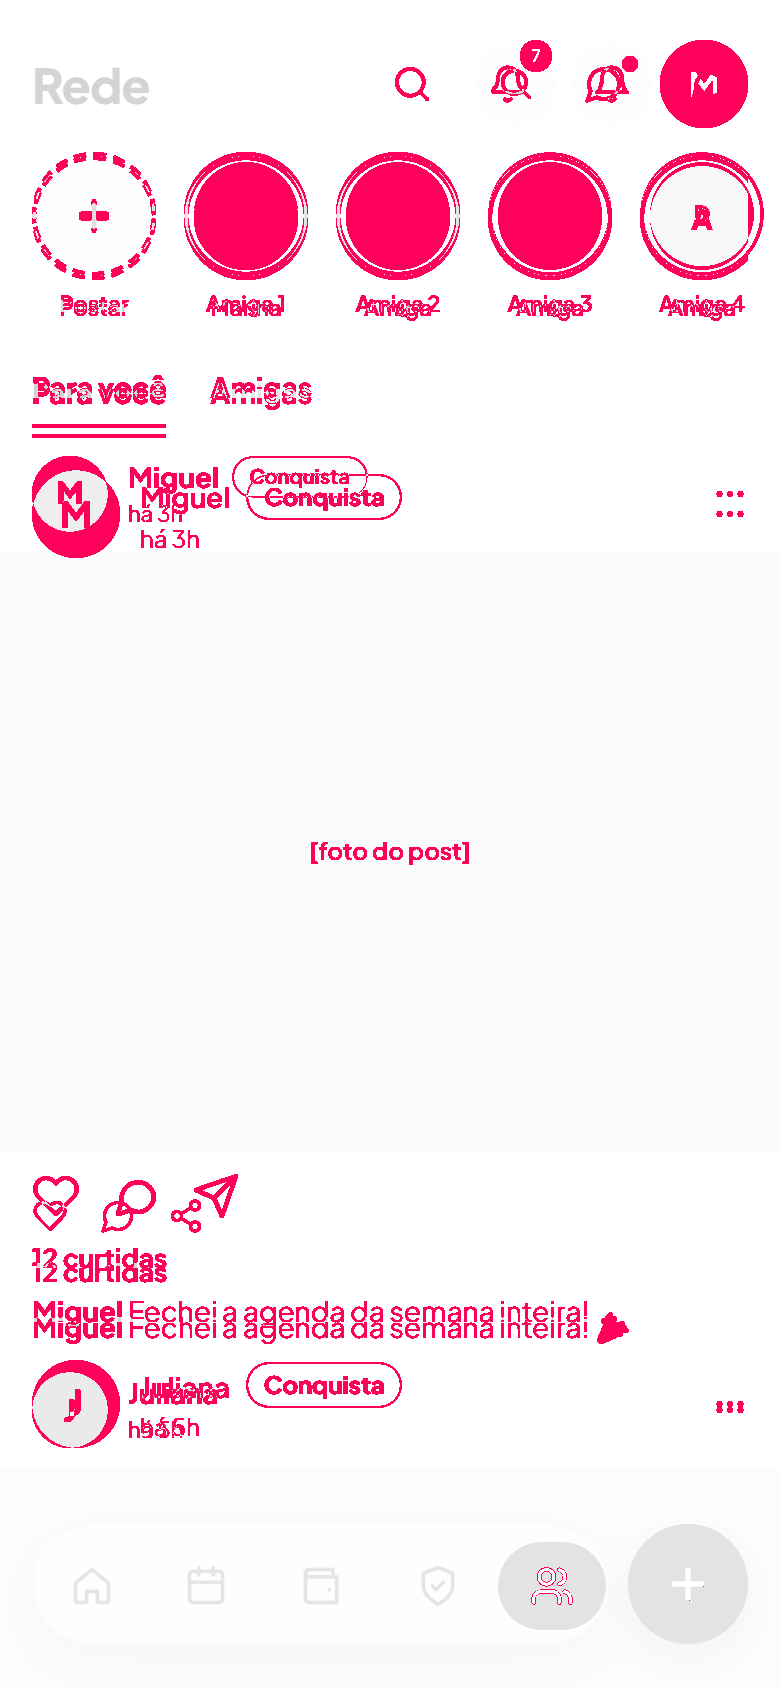
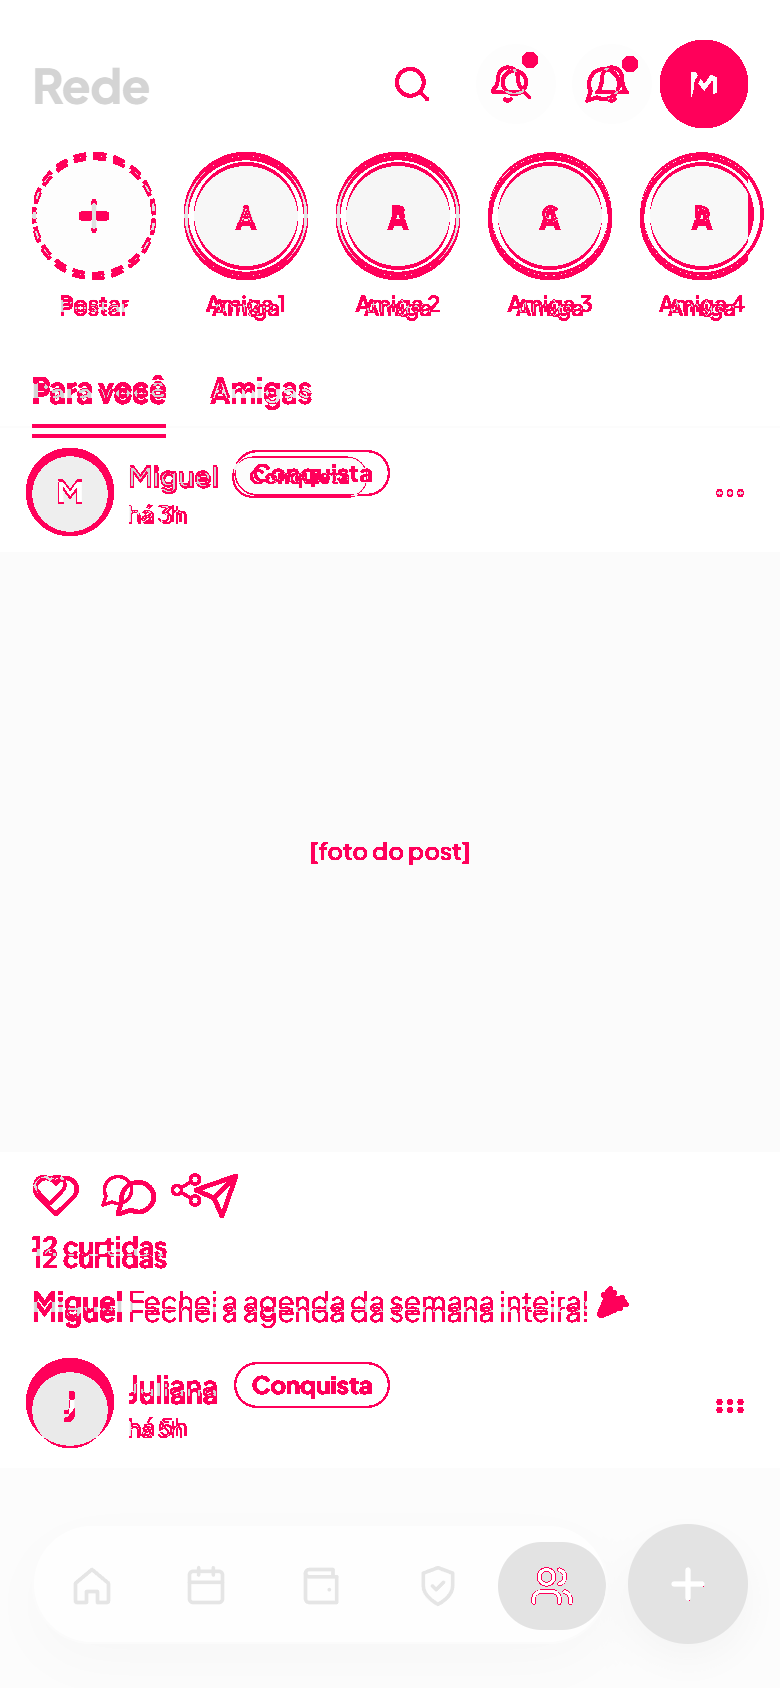
chore(pixel): prints e resumos atualizados do Cofre e da Rede
Saída da ferramenta depois dos ajustes do ponto do sino e da ordem da
fileira de amigas. Só arquivos de pixel/cofre e pixel/rede.

diff --git a/docs/jornada/prints/pixel/cofre/cofre-390-claro-pink-neon-estilos.md b/docs/jornada/prints/pixel/cofre/cofre-390-claro-pink-neon-estilos.md
@@ -2,8 +2,8 @@
 
 - mockup: `5-telas-8-temas-claro-escuro.html`
 - app: `http://localhost:3107/dev-preview/app`
-- pareados 164 · divergem 60 · só no mockup 8 · só no app 177
-- impacto total: **72.459**
+- pareados 164 · divergem 52 · só no mockup 8 · só no app 177
+- impacto total: **68.922**
 - famílias no mockup: plus jakarta sans (32)
 - famílias no app: plus jakarta sans (100)
 
@@ -45,57 +45,48 @@ Em cada célula: **mockup** → app.
 | 10 | 0.784 | span | 80,771 · 46x44 | borderRadius | `22px 22px 22px 22px` → `999px 999px 999px 999px` |
 | 11 | 0.784 | span | 138,771 · 46x44 | borderRadius | `22px 22px 22px 22px` → `999px 999px 999px 999px` |
 | 12 | 0.784 | span | 253,771 · 46x44 | borderRadius | `22px 22px 22px 22px` → `999px 999px 999px 999px` |
-| 13 | 0.737 | span | 32,745 · 40x40 | color | `rgb(214, 16, 92)` → `rgb(15, 138, 82)` |
-|  |  |  |  | backgroundColor | `rgb(253, 227, 236)` → `rgba(15, 138, 82, 0.14)` |
-| 14 | 0.707 | span | 32,940 · 40x40 | color | `rgb(124, 58, 237)` → `rgb(15, 138, 82)` |
-|  |  |  |  | backgroundColor | `rgb(241, 234, 254)` → `rgba(15, 138, 82, 0.14)` |
-| 15 | 0.697 | span | 284,24 · 40x40 | borderRadius | `50% 50% 50% 50%` → `9999px 9999px 9999px 9999px` |
-| 16 | 0.697 | span | 334,24 · 40x40 | borderRadius | `50% 50% 50% 50%` → `9999px 9999px 9999px 9999px` |
-| 17 | 0.594 | span | 32,810 · 40x40 | color | `rgb(15, 138, 82)` → `rgb(29, 78, 216)` |
-|  |  |  |  | backgroundColor | `rgb(227, 246, 236)` → `rgba(29, 78, 216, 0.14)` |
-| 18 | 0.456 | span | 32,875 · 40x40 | color | `rgb(29, 78, 216)` → `rgb(192, 132, 252)` |
-|  |  |  |  | backgroundColor | `rgb(230, 239, 253)` → `rgba(192, 132, 252, 0.14)` |
-| 19 | 0.449 | span | 32,418 · 40x40 | backgroundColor | `rgb(227, 246, 236)` → `rgba(15, 138, 82, 0.14)` |
-| 20 | 0.449 | span | 32,613 · 40x40 | backgroundColor | `rgb(227, 246, 236)` → `rgba(15, 138, 82, 0.14)` |
-| 21 | 0.422 | span | 32,483 · 40x40 | backgroundColor | `rgb(230, 239, 253)` → `rgba(29, 78, 216, 0.14)` |
-| 22 | 0.37 | span | 32,548 · 40x40 | color | `rgb(124, 58, 237)` → `rgb(192, 132, 252)` |
-|  |  |  |  | backgroundColor | `rgb(241, 234, 254)` → `rgba(192, 132, 252, 0.14)` |
-| 23 | 0.29 | svg | 332,780 · 24x24 | color | `rgb(255, 255, 255)` → `rgb(15, 15, 15)` |
-| 24 | 0.241 | span “Ver tudo ›” | 318,365 · 57x18 | altura | `18px` → `44px` |
-| 25 | 0.136 | svg | 42,755 · 20x20 | color | `rgb(214, 16, 92)` → `rgb(15, 138, 82)` |
-| 26 | 0.12 | svg | 42,950 · 20x20 | color | `rgb(124, 58, 237)` → `rgb(15, 138, 82)` |
-| 27 | 0.103 | path | 46,758 · 12x15 | color | `rgb(214, 16, 92)` → `rgb(15, 138, 82)` |
+| 13 | 0.697 | span | 284,24 · 40x40 | borderRadius | `50% 50% 50% 50%` → `9999px 9999px 9999px 9999px` |
+| 14 | 0.697 | span | 334,24 · 40x40 | borderRadius | `50% 50% 50% 50%` → `9999px 9999px 9999px 9999px` |
+| 15 | 0.309 | span | 32,745 · 40x40 | color | `rgb(214, 16, 92)` → `rgb(15, 138, 82)` |
+|  |  |  |  | backgroundColor | `rgb(253, 227, 236)` → `rgb(227, 246, 236)` |
+| 16 | 0.29 | svg | 332,780 · 24x24 | color | `rgb(255, 255, 255)` → `rgb(15, 15, 15)` |
+| 17 | 0.269 | span | 32,940 · 40x40 | color | `rgb(124, 58, 237)` → `rgb(15, 138, 82)` |
+|  |  |  |  | backgroundColor | `rgb(241, 234, 254)` → `rgb(227, 246, 236)` |
+| 18 | 0.241 | span “Ver tudo ›” | 318,365 · 57x18 | altura | `18px` → `44px` |
+| 19 | 0.193 | span | 32,810 · 40x40 | color | `rgb(15, 138, 82)` → `rgb(29, 78, 216)` |
+|  |  |  |  | backgroundColor | `rgb(227, 246, 236)` → `rgb(230, 239, 253)` |
+| 20 | 0.136 | svg | 42,755 · 20x20 | color | `rgb(214, 16, 92)` → `rgb(15, 138, 82)` |
+| 21 | 0.13 | span | 32,875 · 40x40 | color | `rgb(29, 78, 216)` → `rgb(124, 58, 237)` |
+|  |  |  |  | backgroundColor | `rgb(230, 239, 253)` → `rgb(241, 234, 254)` |
+| 22 | 0.12 | svg | 42,950 · 20x20 | color | `rgb(124, 58, 237)` → `rgb(15, 138, 82)` |
+| 23 | 0.103 | path | 46,758 · 12x15 | color | `rgb(214, 16, 92)` → `rgb(15, 138, 82)` |
 |  |  |  |  | largura | `11.7px` → `15px` |
-| 28 | 0.102 | svg | 42,885 · 20x20 | color | `rgb(29, 78, 216)` → `rgb(192, 132, 252)` |
-| 29 | 0.09 | rect | 45,953 · 15x15 | color | `rgb(124, 58, 237)` → `rgb(15, 138, 82)` |
-| 30 | 0.086 | svg | 42,820 · 20x20 | color | `rgb(15, 138, 82)` → `rgb(29, 78, 216)` |
-| 31 | 0.077 | svg | 342,430 · 16x16 | color | `rgb(15, 15, 15)` → `rgb(107, 107, 116)` |
-| 32 | 0.077 | svg | 342,495 · 16x16 | color | `rgb(15, 15, 15)` → `rgb(107, 107, 116)` |
-| 33 | 0.077 | svg | 342,560 · 16x16 | color | `rgb(15, 15, 15)` → `rgb(107, 107, 116)` |
-| 34 | 0.077 | svg | 342,625 · 16x16 | color | `rgb(15, 15, 15)` → `rgb(107, 107, 116)` |
-| 35 | 0.077 | svg | 342,757 · 16x16 | color | `rgb(15, 15, 15)` → `rgb(107, 107, 116)` |
-| 36 | 0.077 | svg | 342,822 · 16x16 | color | `rgb(15, 15, 15)` → `rgb(107, 107, 116)` |
-| 37 | 0.077 | svg | 342,887 · 16x16 | color | `rgb(15, 15, 15)` → `rgb(107, 107, 116)` |
-| 38 | 0.077 | svg | 342,952 · 16x16 | color | `rgb(15, 15, 15)` → `rgb(107, 107, 116)` |
-| 39 | 0.076 | rect | 45,888 · 15x15 | color | `rgb(29, 78, 216)` → `rgb(192, 132, 252)` |
-| 40 | 0.069 | h2 “Recentes” | 16,363 · 69x23 | gap | `10px` → `normal` |
-| 41 | 0.066 | path | 46,958 · 13x9 | color | `rgb(124, 58, 237)` → `rgb(15, 138, 82)` |
-| 42 | 0.064 | rect | 45,823 · 15x15 | color | `rgb(15, 138, 82)` → `rgb(29, 78, 216)` |
-| 43 | 0.059 | svg | 42,558 · 20x20 | color | `rgb(124, 58, 237)` → `rgb(192, 132, 252)` |
-| 44 | 0.056 | path | 46,893 · 13x9 | color | `rgb(29, 78, 216)` → `rgb(192, 132, 252)` |
-| 45 | 0.047 | path | 46,828 · 13x9 | color | `rgb(15, 138, 82)` → `rgb(29, 78, 216)` |
-| 46 | 0.044 | rect | 45,560 · 15x15 | color | `rgb(124, 58, 237)` → `rgb(192, 132, 252)` |
-| 47 | 0.042 | div | 32,928 · 326x64 | altura | `64px` → `65px` |
-| 48 | 0.033 | path | 46,566 · 13x9 | color | `rgb(124, 58, 237)` → `rgb(192, 132, 252)` |
-| 49 | 0.027 | path | 348,434 · 4x8 | color | `rgb(15, 15, 15)` → `rgb(107, 107, 116)` |
-| 50 | 0.027 | path | 348,499 · 4x8 | color | `rgb(15, 15, 15)` → `rgb(107, 107, 116)` |
-| 51 | 0.027 | path | 348,564 · 4x8 | color | `rgb(15, 15, 15)` → `rgb(107, 107, 116)` |
-| 52 | 0.027 | path | 348,629 · 4x8 | color | `rgb(15, 15, 15)` → `rgb(107, 107, 116)` |
-| 53 | 0.027 | path | 348,761 · 4x8 | color | `rgb(15, 15, 15)` → `rgb(107, 107, 116)` |
-| 54 | 0.027 | path | 348,826 · 4x8 | color | `rgb(15, 15, 15)` → `rgb(107, 107, 116)` |
-| 55 | 0.027 | path | 348,891 · 4x8 | color | `rgb(15, 15, 15)` → `rgb(107, 107, 116)` |
-| 56 | 0.027 | path | 348,956 · 4x8 | color | `rgb(15, 15, 15)` → `rgb(107, 107, 116)` |
-| 57 | 0.02 | circle | 48,956 · 3x3 | color | `rgb(124, 58, 237)` → `rgb(15, 138, 82)` |
-| 58 | 0.017 | circle | 48,891 · 3x3 | color | `rgb(29, 78, 216)` → `rgb(192, 132, 252)` |
-| 59 | 0.014 | circle | 48,826 · 3x3 | color | `rgb(15, 138, 82)` → `rgb(29, 78, 216)` |
-| 60 | 0.01 | circle | 48,563 · 3x3 | color | `rgb(124, 58, 237)` → `rgb(192, 132, 252)` |
+| 24 | 0.09 | rect | 45,953 · 15x15 | color | `rgb(124, 58, 237)` → `rgb(15, 138, 82)` |
+| 25 | 0.086 | svg | 42,820 · 20x20 | color | `rgb(15, 138, 82)` → `rgb(29, 78, 216)` |
+| 26 | 0.077 | svg | 342,430 · 16x16 | color | `rgb(15, 15, 15)` → `rgb(107, 107, 116)` |
+| 27 | 0.077 | svg | 342,495 · 16x16 | color | `rgb(15, 15, 15)` → `rgb(107, 107, 116)` |
+| 28 | 0.077 | svg | 342,560 · 16x16 | color | `rgb(15, 15, 15)` → `rgb(107, 107, 116)` |
+| 29 | 0.077 | svg | 342,625 · 16x16 | color | `rgb(15, 15, 15)` → `rgb(107, 107, 116)` |
+| 30 | 0.077 | svg | 342,757 · 16x16 | color | `rgb(15, 15, 15)` → `rgb(107, 107, 116)` |
+| 31 | 0.077 | svg | 342,822 · 16x16 | color | `rgb(15, 15, 15)` → `rgb(107, 107, 116)` |
+| 32 | 0.077 | svg | 342,887 · 16x16 | color | `rgb(15, 15, 15)` → `rgb(107, 107, 116)` |
+| 33 | 0.077 | svg | 342,952 · 16x16 | color | `rgb(15, 15, 15)` → `rgb(107, 107, 116)` |
+| 34 | 0.069 | h2 “Recentes” | 16,363 · 69x23 | gap | `10px` → `normal` |
+| 35 | 0.066 | path | 46,958 · 13x9 | color | `rgb(124, 58, 237)` → `rgb(15, 138, 82)` |
+| 36 | 0.064 | rect | 45,823 · 15x15 | color | `rgb(15, 138, 82)` → `rgb(29, 78, 216)` |
+| 37 | 0.058 | svg | 42,885 · 20x20 | color | `rgb(29, 78, 216)` → `rgb(124, 58, 237)` |
+| 38 | 0.047 | path | 46,828 · 13x9 | color | `rgb(15, 138, 82)` → `rgb(29, 78, 216)` |
+| 39 | 0.043 | rect | 45,888 · 15x15 | color | `rgb(29, 78, 216)` → `rgb(124, 58, 237)` |
+| 40 | 0.042 | div | 32,928 · 326x64 | altura | `64px` → `65px` |
+| 41 | 0.032 | path | 46,893 · 13x9 | color | `rgb(29, 78, 216)` → `rgb(124, 58, 237)` |
+| 42 | 0.027 | path | 348,434 · 4x8 | color | `rgb(15, 15, 15)` → `rgb(107, 107, 116)` |
+| 43 | 0.027 | path | 348,499 · 4x8 | color | `rgb(15, 15, 15)` → `rgb(107, 107, 116)` |
+| 44 | 0.027 | path | 348,564 · 4x8 | color | `rgb(15, 15, 15)` → `rgb(107, 107, 116)` |
+| 45 | 0.027 | path | 348,629 · 4x8 | color | `rgb(15, 15, 15)` → `rgb(107, 107, 116)` |
+| 46 | 0.027 | path | 348,761 · 4x8 | color | `rgb(15, 15, 15)` → `rgb(107, 107, 116)` |
+| 47 | 0.027 | path | 348,826 · 4x8 | color | `rgb(15, 15, 15)` → `rgb(107, 107, 116)` |
+| 48 | 0.027 | path | 348,891 · 4x8 | color | `rgb(15, 15, 15)` → `rgb(107, 107, 116)` |
+| 49 | 0.027 | path | 348,956 · 4x8 | color | `rgb(15, 15, 15)` → `rgb(107, 107, 116)` |
+| 50 | 0.02 | circle | 48,956 · 3x3 | color | `rgb(124, 58, 237)` → `rgb(15, 138, 82)` |
+| 51 | 0.014 | circle | 48,826 · 3x3 | color | `rgb(15, 138, 82)` → `rgb(29, 78, 216)` |
+| 52 | 0.01 | circle | 48,891 · 3x3 | color | `rgb(29, 78, 216)` → `rgb(124, 58, 237)` |

diff --git a/docs/jornada/prints/pixel/rede/rede-390-claro-pink-neon-estilos.md b/docs/jornada/prints/pixel/rede/rede-390-claro-pink-neon-estilos.md
@@ -2,10 +2,10 @@
 
 - mockup: `5-telas-8-temas-claro-escuro.html`
 - app: `http://localhost:3107/dev-preview/app`
-- pareados 91 · divergem 63 · só no mockup 22 · só no app 471
+- pareados 91 · divergem 63 · só no mockup 22 · só no app 475
 - impacto total: **76.822**
 - famílias no mockup: plus jakarta sans (27)
-- famílias no app: plus jakarta sans (146)
+- famílias no app: plus jakarta sans (147)
 
 Ordem por impacto = (soma das diferenças normalizadas) × √(área relativa).
 Em cada célula: **mockup** → app.
